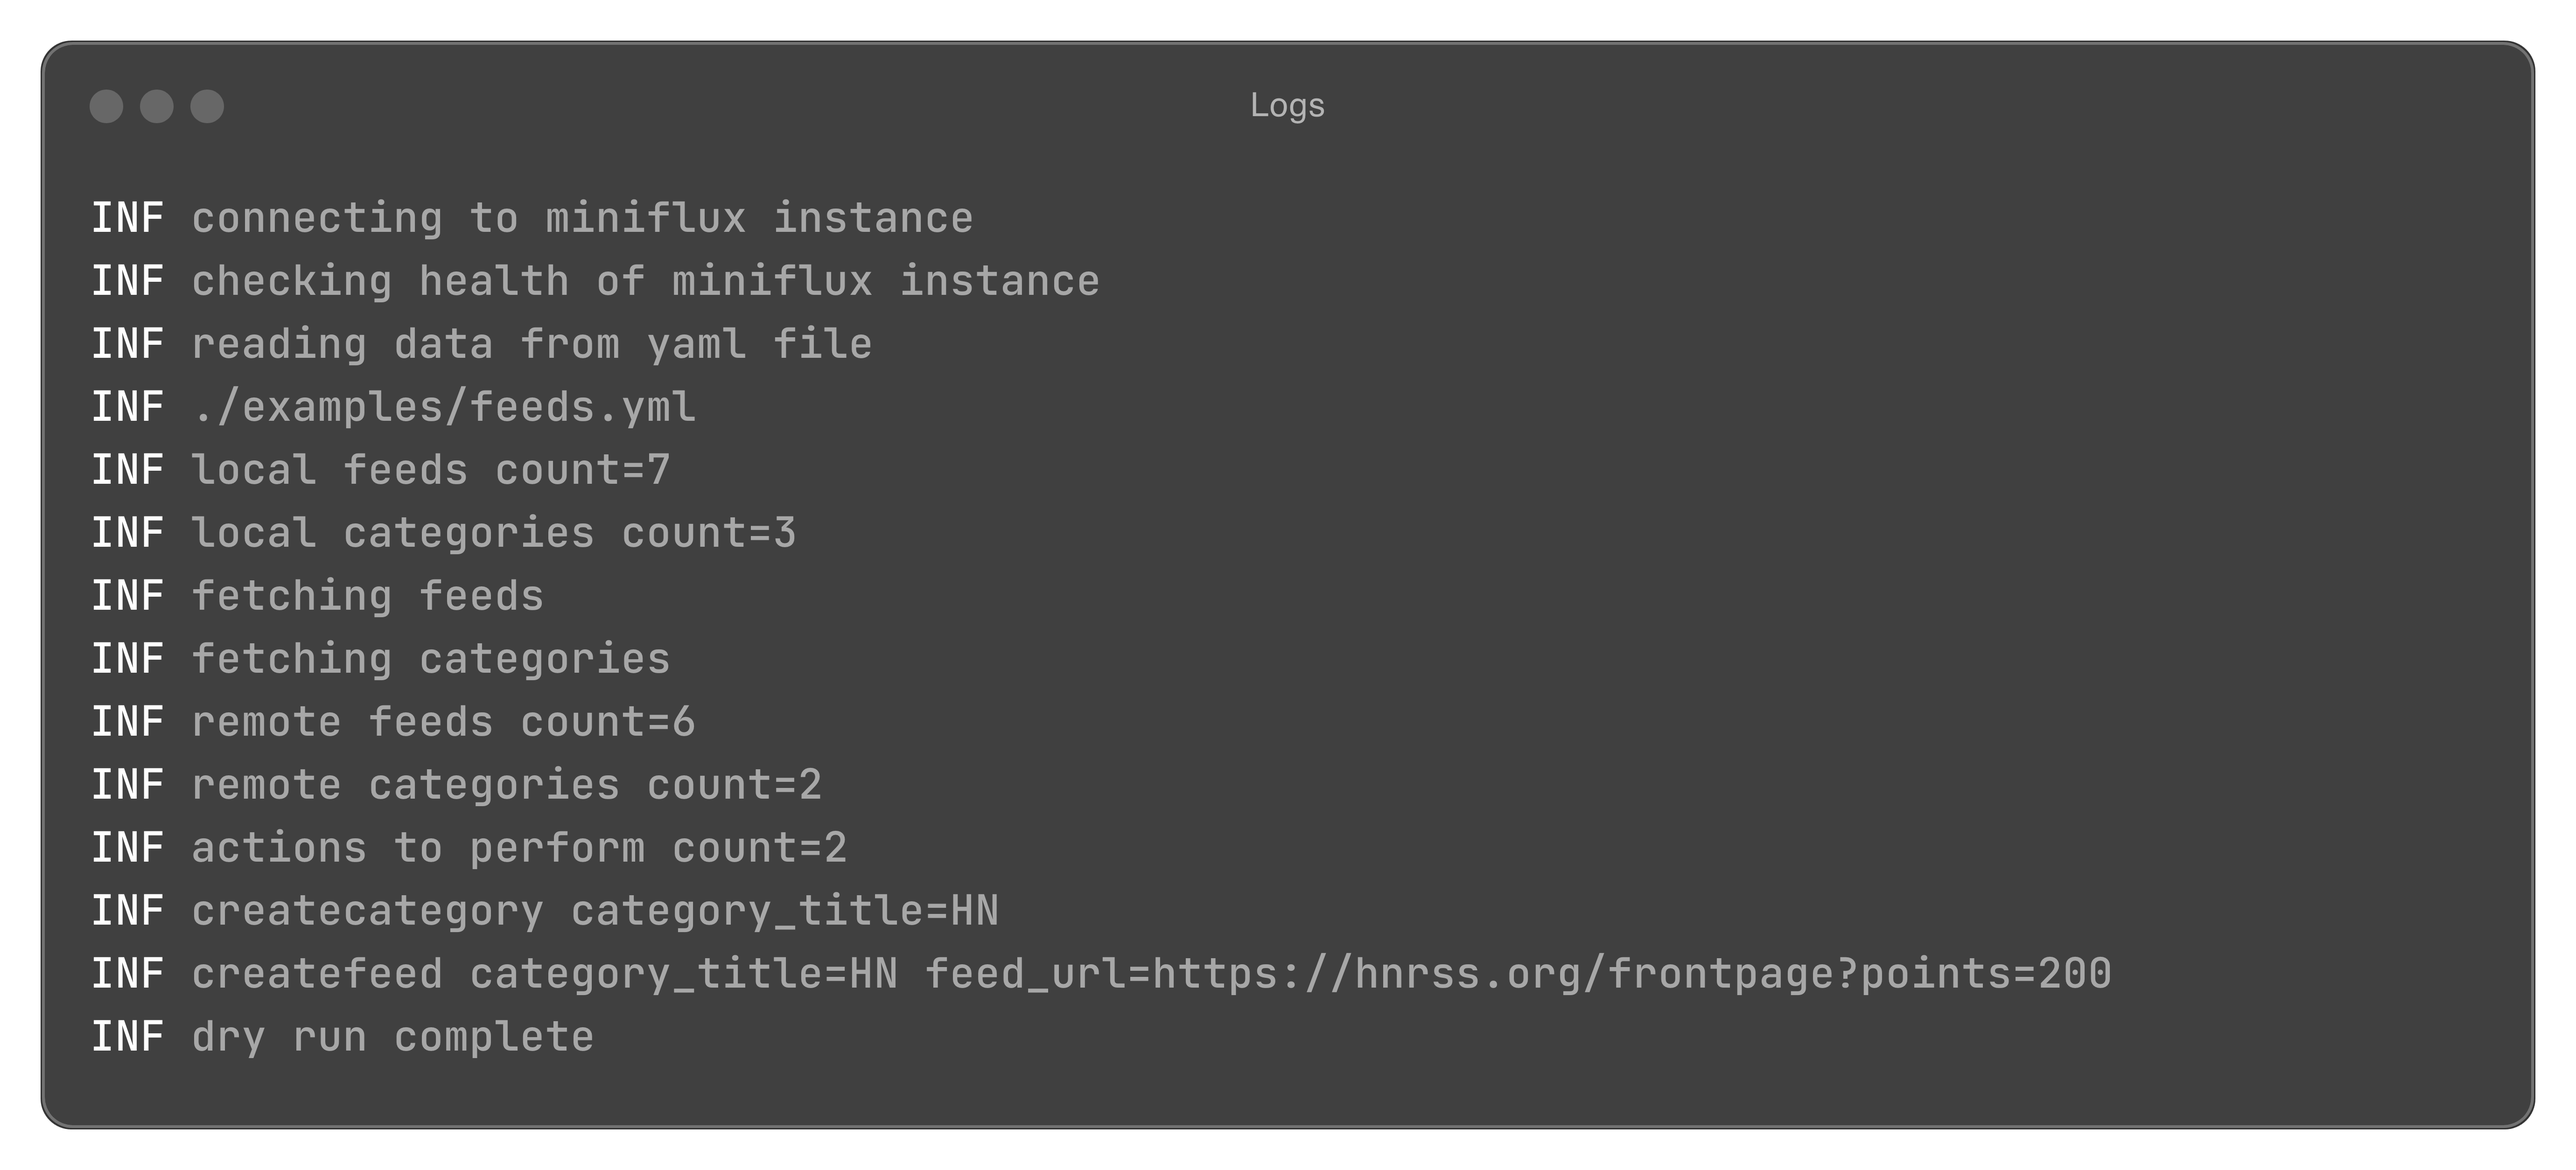
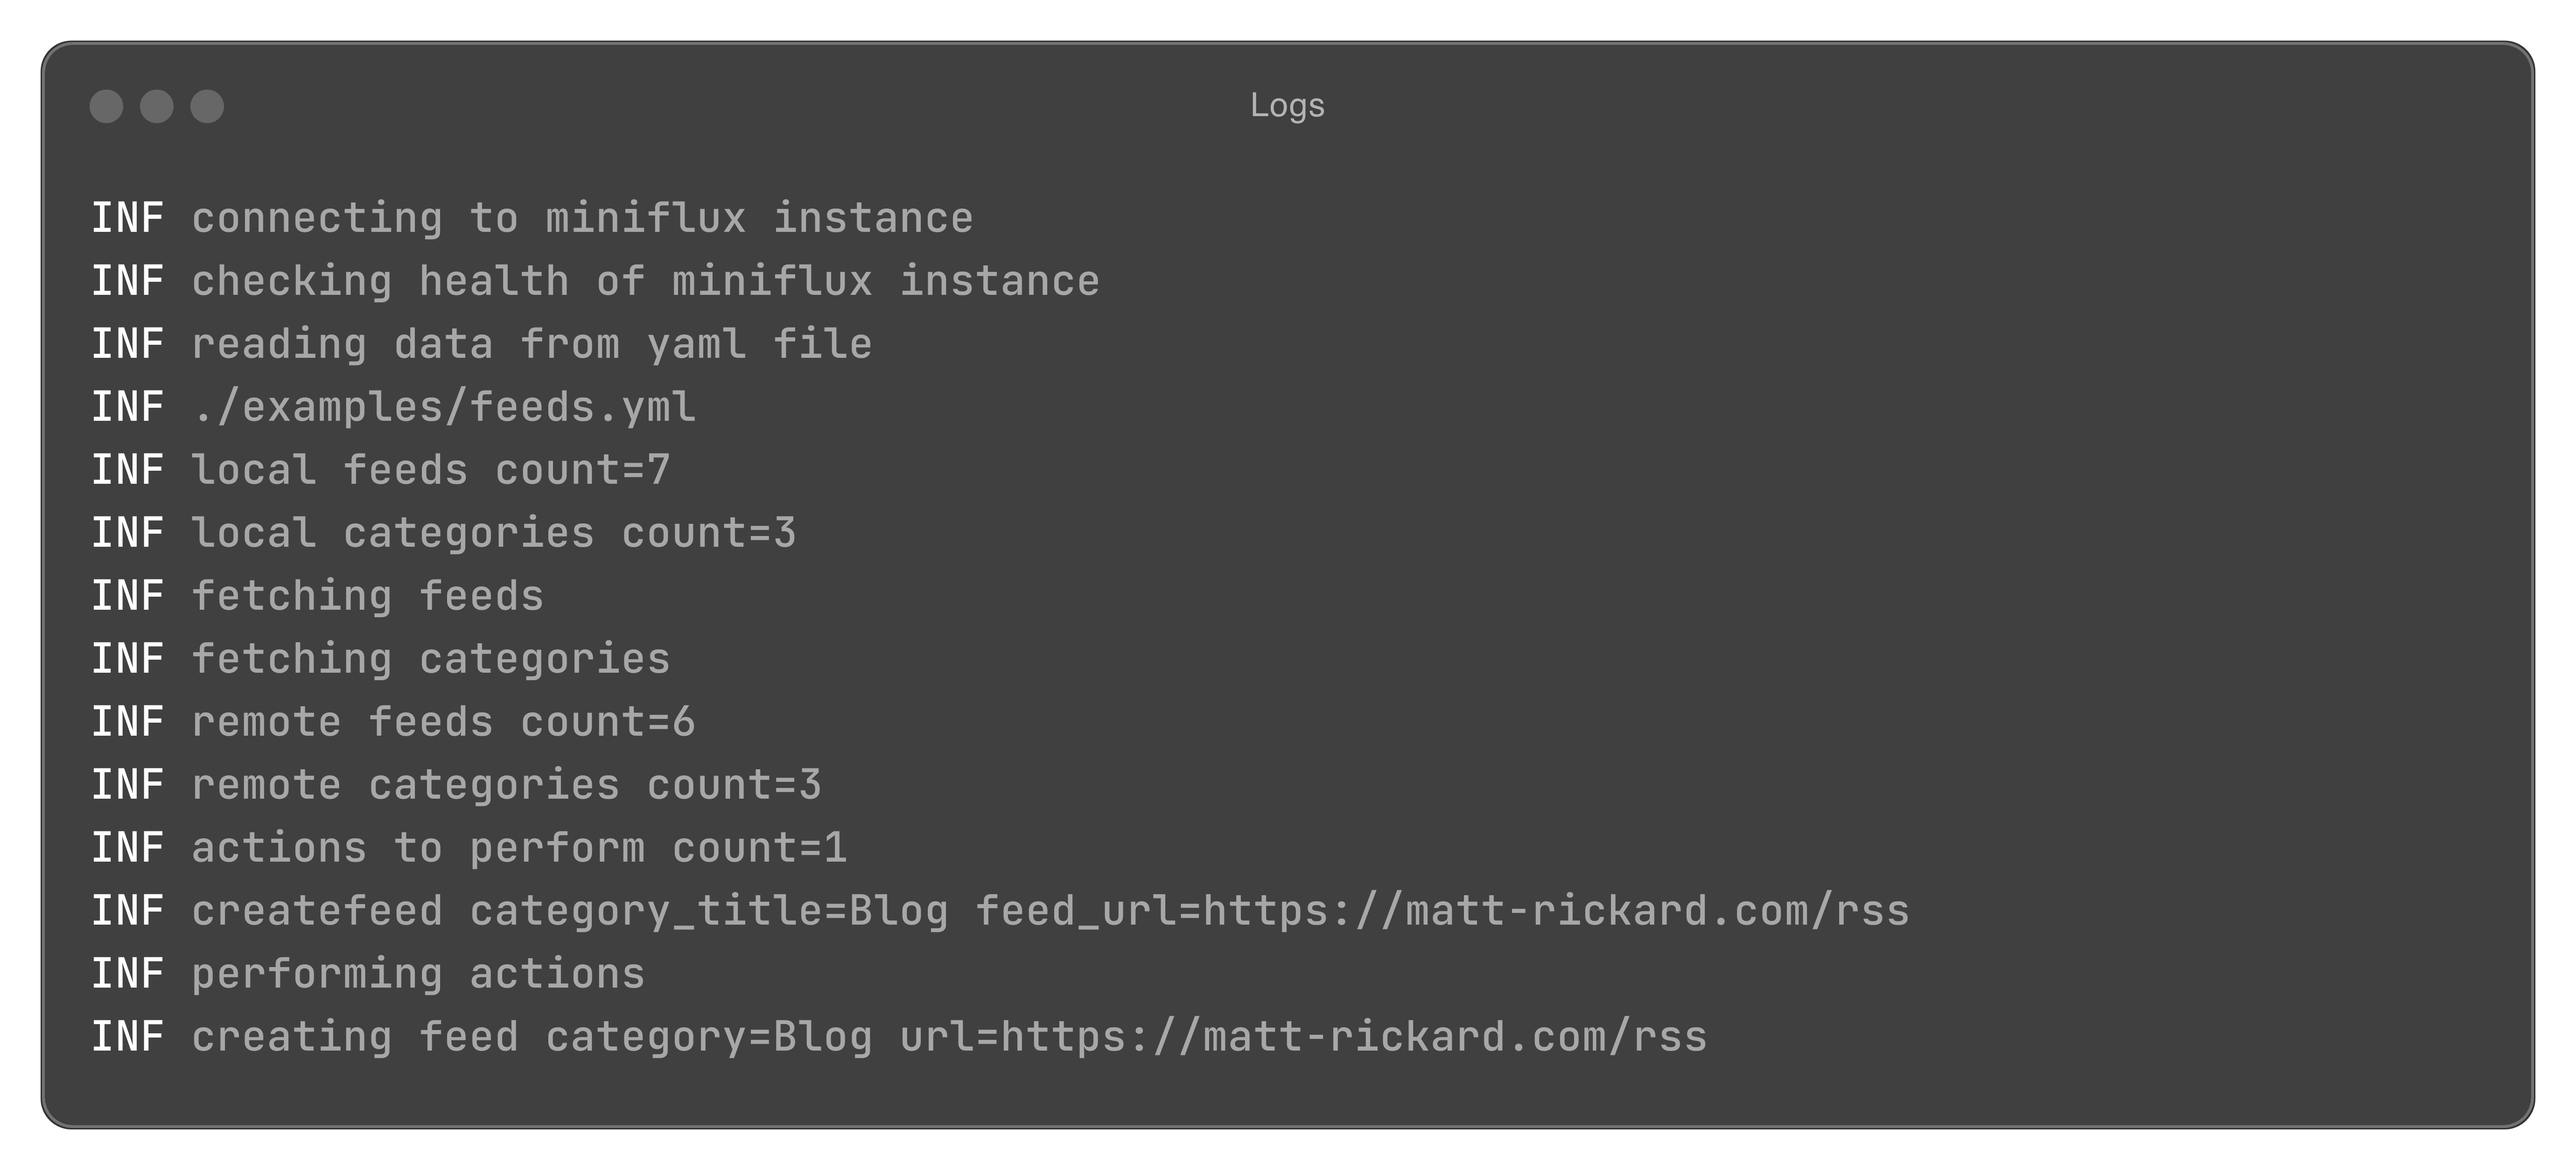
Update image.

Changed region(s): [[0.0935, 0.7464, 0.8101, 0.8397], [0.0935, 0.8708, 0.6543, 0.9019]]

diff --git a/main.go b/main.go
@@ -16,6 +16,7 @@ import (
 // TODO: Define release process.
 // TODO: Check that input files exist.
 // TODO: Export remote as YAML.
+// TODO: Bug - referencing category that was just created when creating a feed.
 
 //go:embed VERSION
 var version string
@@ -41,3 +42,19 @@ func main() {
 		log.Fatal(ctx, err)
 	}
 }
+
+
+INF connecting to miniflux instance
+INF checking health of miniflux instance
+INF reading data from yaml file
+INF ./examples/feeds.yml
+INF local feeds count=7
+INF local categories count=3
+INF fetching feeds
+INF fetching categories
+INF remote feeds count=6
+INF remote categories count=3
+INF actions to perform count=1
+INF createfeed category_title=Blog feed_url=https://matt-rickard.com/rss
+INF performing actions
+INF creating feed category=Blog url=https://matt-rickard.com/rss
